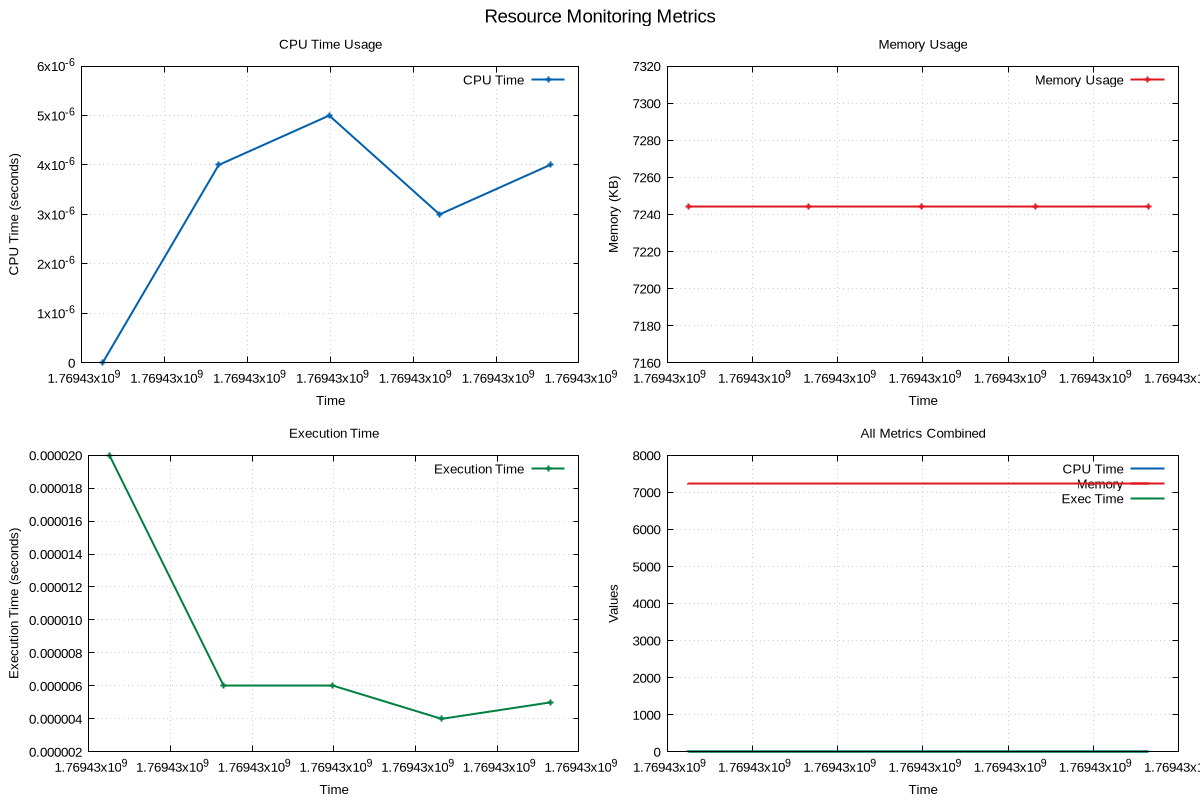
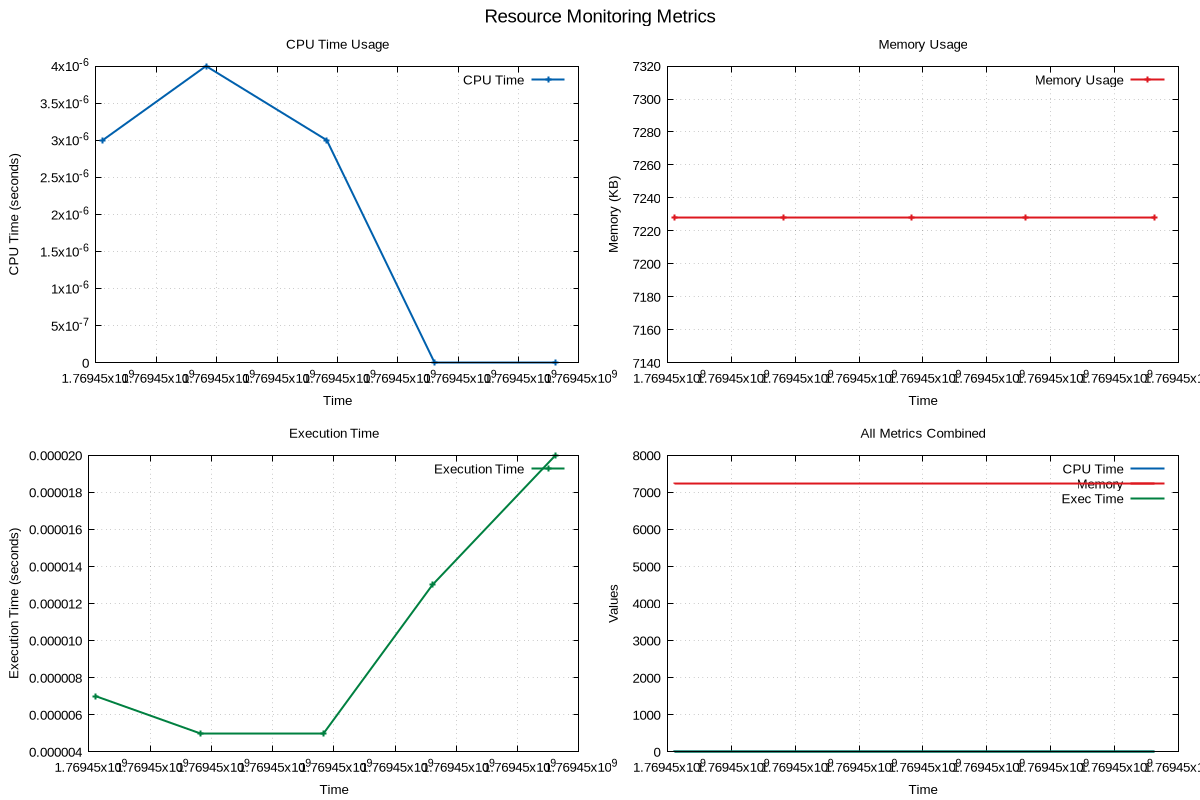
made teh algo file as a header

diff --git a/main_application.cpp b/main_application.cpp
@@ -3,6 +3,7 @@
 #include <algorithm>
 #include <thread>
 #include <sched.h>
+#include "binary_search_single_core.hpp"
 #include "resource_monitor.hpp"
 #include "plot_generator.hpp"
 
@@ -10,40 +11,10 @@
 #include "database_manager.hpp"
 #endif
 
-// Function to set CPU affinity to a specific core
-void set_cpu_affinity(int core_id) {
-    cpu_set_t mask;
-    CPU_ZERO(&mask);
-    CPU_SET(core_id, &mask);
-    
-    if (sched_setaffinity(0, sizeof(mask), &mask) == -1) {
-        perror("sched_setaffinity");
-        exit(EXIT_FAILURE);
-    }
-}
-
-// Binary search function
-int binary_search(const std::vector<int>& arr, int target) {
-    int left = 0;
-    int right = arr.size() - 1;
-    
-    while (left <= right) {
-        int mid = left + (right - left) / 2;
-        
-        if (arr[mid] == target) {
-            return mid; // Found the target
-        } else if (arr[mid] < target) {
-            left = mid + 1; // Search the right half
-        } else {
-            right = mid - 1; // Search the left half
-        }
-    }
-    
-    return -1; // Target not found
-}
-
-int main() {
-    try {
+int main() 
+{
+    try 
+    {
         // Set CPU affinity to core 0 (static assignment)
         const int core_id = 0;
         set_cpu_affinity(core_id);
@@ -52,7 +23,6 @@ int main() {
         // Initialize monitoring
         ResourceMonitor monitor;
         
-        // Initialize database if SQLite is available
         #ifdef HAS_SQLITE
             DatabaseManager db_manager("resource_metrics.db");
             std::cout << "Database initialized: resource_metrics.db" << std::endl;
@@ -60,14 +30,16 @@ int main() {
         
         // Create test data - sorted array for binary search
         std::vector<int> sorted_array;
-        for (int i = 0; i < 1000000; i += 3) {
+        for (int i = 0; i < 1000000; i += 3) 
+        {
             sorted_array.push_back(i);
         }
         
         // Run multiple binary searches and monitor resources
         std::vector<int> targets = {1000, 50000, 100000, 500000, 999999};
         
-        for (int target : targets) {
+        for (int target : targets) 
+        {
             std::cout << "Searching for target: " << target << std::endl;
             
             // Start monitoring
@@ -86,10 +58,13 @@ int main() {
             #endif
             
             // Print search result
-            if (result != -1) {
+            if (result != -1) 
+            {
                 std::cout << "  Found at index: " << result
                           << " (value: " << sorted_array[result] << ")" << std::endl;
-            } else {
+            }
+            else 
+            {
                 std::cout << "  Not found" << std::endl;
             }
             
@@ -109,10 +84,12 @@ int main() {
         // Read CSV file into csv_data
         std::ifstream csv_file("resource_metrics.csv");
         std::string line;
-        while (std::getline(csv_file, line)) {
+        while (std::getline(csv_file, line)) 
+        {
             std::vector<std::string> row;
             size_t pos = 0;
-            while ((pos = line.find(',')) != std::string::npos) {
+            while ((pos = line.find(',')) != std::string::npos) 
+            {
                 row.push_back(line.substr(0, pos));
                 line.erase(0, pos + 1);
             }
@@ -128,7 +105,8 @@ int main() {
         std::cout << "- CSV export: resource_metrics.csv" << std::endl;
         std::cout << "- Visualization: resource_metrics.png" << std::endl;
         
-    } catch (const std::exception& e) {
+    } catch (const std::exception& e) 
+    {
         std::cerr << "Error: " << e.what() << std::endl;
         return 1;
     }

diff --git a/binary_search_single_core.hpp b/binary_search_single_core.hpp
@@ -1,3 +1,6 @@
+#ifndef BINARY_SEARCH_SINGLE_CORE_HPP
+#define BINARY_SEARCH_SINGLE_CORE_HPP
+
 #include <iostream>
 #include <vector>
 #include <algorithm>
@@ -44,3 +47,5 @@ int binary_search(const std::vector<int>& arr, int target)
 
     return -1;
 }
+
+#endif // BINARY_SEARCH_SINGLE_CORE_HPP
